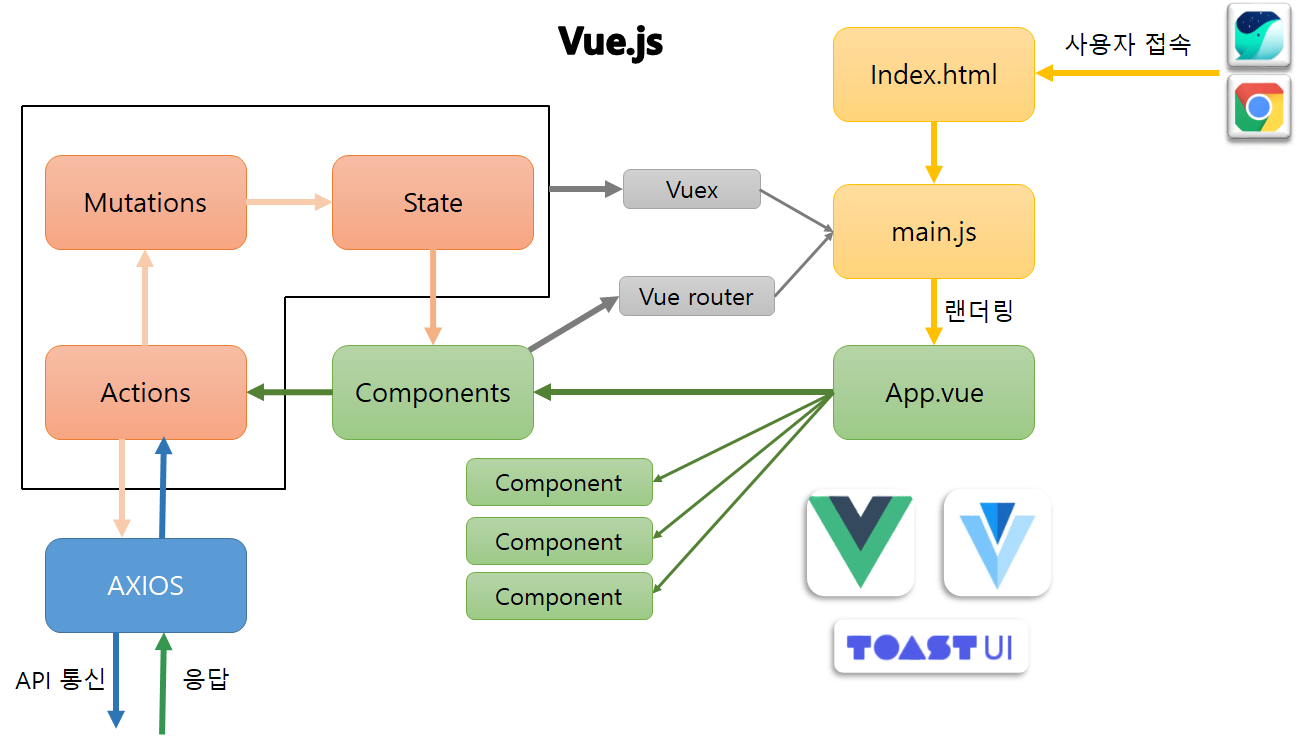
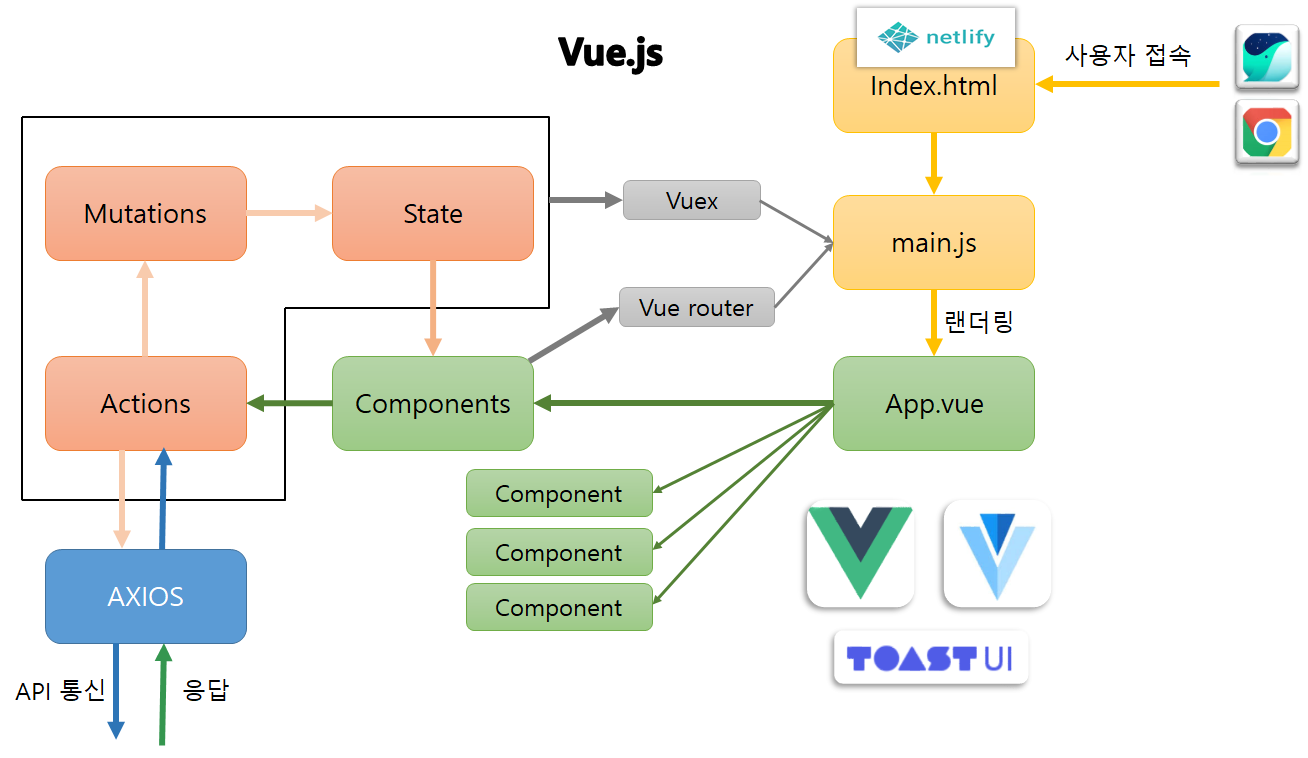
Edit Readme

diff --git a/README.md b/README.md
@@ -34,9 +34,11 @@
  - Vuetify
  - Toast-UI Editor
 
-#### 배포
-- 서버는 AWS에 배포
-- 프론트는 Netlify에 배포
+#### Deploy
+- BackEnd
+  - AWS EC2
+- FrontEnd
+  - Netlify
 ---
 ## 구현 순서
 #### 1. OAuth 2.0 서버 구축
@@ -49,6 +51,7 @@
 #### 2. 회원가입, 로그인 기능 구현
 - 회원가입, 로그인 뷰 구현
   - rules를 이용하여 input 검증
+  - 검증된 input만 통신허용
 - 회원가입, 로그인 API 통신 구현
 
 #### 3. 권한별 라우터 설정, 로그아웃 구현
@@ -62,7 +65,7 @@
   - EC2에 기본적으로 필요한 프로그램 설치
   - RDS는 Maria DB로 사용
     - 이유
-      - 가격이 저험
+      - 가격이 저렴
       - Amazon Aurora와 교체가 용이
 
 - **EC2에서 직접 서버 실행**
@@ -89,16 +92,18 @@
 #### 6. 기타 추가 설정
 - Vue.js에서 axios interceptor를 이용하여 기본 에러 처리
 - 토큰 만료 시
-  - Response Error가 토큰 만료라면 Refresh Token으로 자동으로 토큰 재 발급
+  - interceptor에서 응답을 보고 Refresh Token으로 자동으로 토큰 재 발급
   - Refresh Token도 만료되었다면 로그아웃 후 사용자에게 알림
 - 서버 도메인 등록 후 https 인증 추가
-- 서버측에서 HandlerMethodArgumentResolver를 이용하여 Annotation만으로 토큰 사용자의 Email Decodeing
+  - Let's Encrypt를 통하여 인증
+- 서버측에서 HandlerMethodArgumentResolver를 이용하여 토큰 디코딩하여 사용자의 정보를 확인
 - AOP를 이용하여 컨트롤러 메서드 실행 시간 측정
 
-#### 7. Calendar UI 구현하기
-<img src="./images/calendar.png" width="70%">
-<br>
+#### 7. 캘린더, 일정 추가 기능
+![img](./images/calendar.png)
 
-- 날짜 클릭시 일정 추가 가능
-- 일정 클릭 시 상세한 일정 확인 가능
-- 캘린더는 Day, Week, Month 선택 가능
+**로그인 한 유저에 한해서 일정 추가 가능**
+
+- 날짜클릭 시 일정을 추가할 수 있다.
+- 해당 일정을 클릭하면 상세한 일정을 확인할 수 있다.
+- 캘린더는 Day, Week, Month로 바꾸어가면서 확인할 수 있다.
